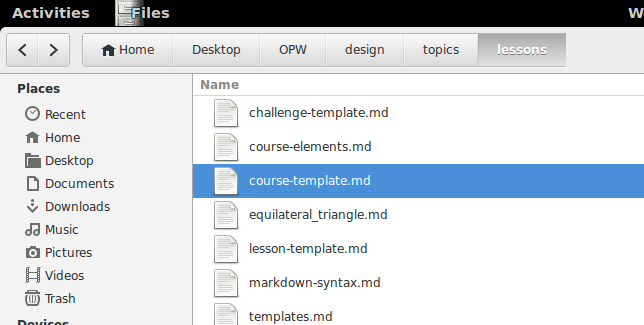
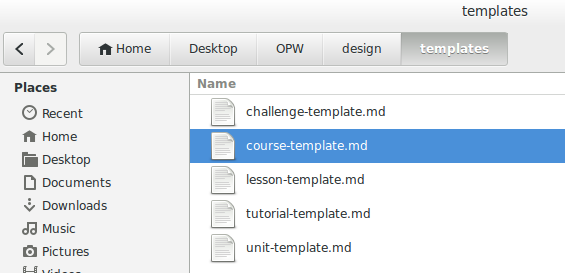
mariana hierarchy edits

Changed region(s): [[0.0, 0.0, 1.0, 1.0], [0.0301, 0.4689, 0.2106, 0.9377], [0.0, 0.967, 0.1504, 1.0]]

diff --git a/contribute-top-menu.md b/contribute-top-menu.md
@@ -72,6 +72,8 @@ If you are **modifying existing material**, navigate to the appropriate folder (
 
 ##Adding New Material
 
+**_BEFORE ADDING NEW MATERIAL_**: Navigate to **Site Map** and scroll through all the courses, units, and topics to see what is already up on the site.  If you find anything related to the content you wish to contribute, please look at what's there first. This is to minimize redundancy. If appropriate, you may always add to material that is up on the site.
+
 If you are **adding new material** to the site, there are some things you should consider:
 
 * How does your material interface with our format (the “hierarchy” of content established on this site)?
@@ -82,12 +84,12 @@ Once you’ve considered these questions, it’s time to start adding your own m
 
 ####1. **Save Templates**
 
-In your local copy of the repository, navigate to design/topics/lessons/ and find the appropriate templates for your new material. 
+In your local copy of the repository, navigate to design/templates/ and find the appropriate templates for your new material. 
 
 <img src="{{ site.baseurl }}/img/coursetemplate.png"/>
 
 
-Open the template file for the type of content you wish to upload and **_IMMEDIATELY SAVE AS_**, choosing a clear name that describes the content in the file. Make sure that the name isn't already used elsewhere (including in another category). If you wish to use more than one word, represent spaces with a dash: **this-is-an-example.md**
+Open the template file for the type of content you wish to upload and **_IMMEDIATELY SAVE AS_**, choosing a clear name that describes the content in the file (usualy the title you will use). Make sure that the name isn't already used elsewhere (including in another category). If you wish to use more than one word, represent spaces with a dash: **this-is-an-example.md**
 
 ####2. **Fill in Header**
 

diff --git a/courses/how_to_contribute/units/adding_or_modifying_material.md b/courses/how_to_contribute/units/adding_or_modifying_material.md
@@ -1,0 +1,44 @@
+---
+layout: unit
+title: Unit Template
+abstract:
+ Write abstract here
+reference_id: unit-template
+tags: [tags, go, here]
+skills: [skills, go, here]
+topics: [list of topics, go, here, as md files, this-is-an-example]
+---
+
+
+
+* This will become a table of contents (this text will be scraped).
+{:toc}
+
+# {{ page.title }}
+
+(HERE YOU MAY WRITE AN INTRODUCTION OF THE COURSE - FOR EXAMPLE YOU CAN SUMMARIZE WHAT IS COVERED OR PROVIDE ANY NECESSARY INFORMATION)
+
+(OPTIONAL: INCLUDE BULLET POINTS OUTLINING TOP-LEVEL HEADERS)
+
+* USE THIS SIZE FOR TOP-LEVEL HEADERS
+* TOP-LEVEL 2
+* TOP-LEVEL 3
+* Tutorial Description
+
+## USE THIS SIZE FOR TOP-LEVEL HEADERS
+
+### NEXT HEADERS
+
+#### AND SO ON
+
+## TOP-LEVEL 2
+
+## TOP-LEVEL 3
+
+##Unit Description
+
+Units are the various topics covered in the course.  We can think of the units as individual folders that contain all the material; any lesson, tutorial or challenge will belong to at least one unit. 
+
+(BELOW THIS TEXT WILL APPEAR A LIST OF LINKS SHOWING THE TOPICS IN THE COURSE)
+
+
